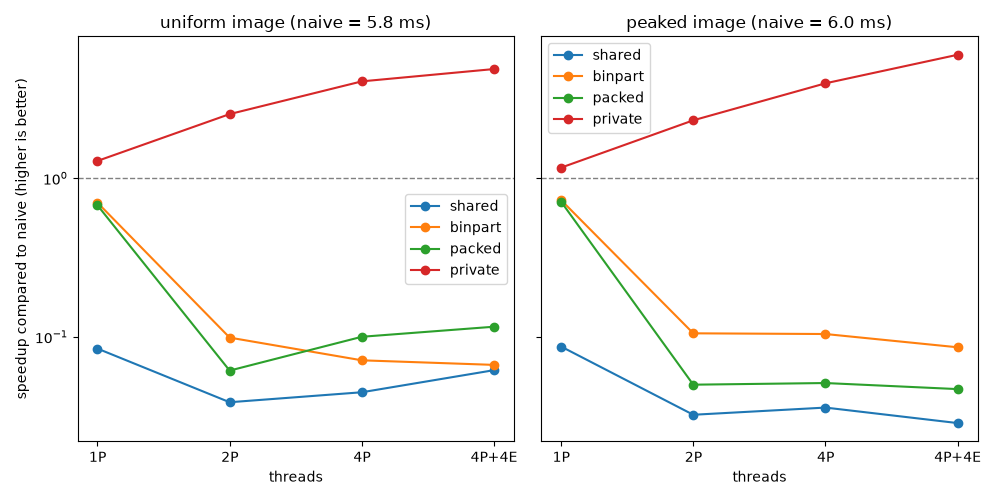
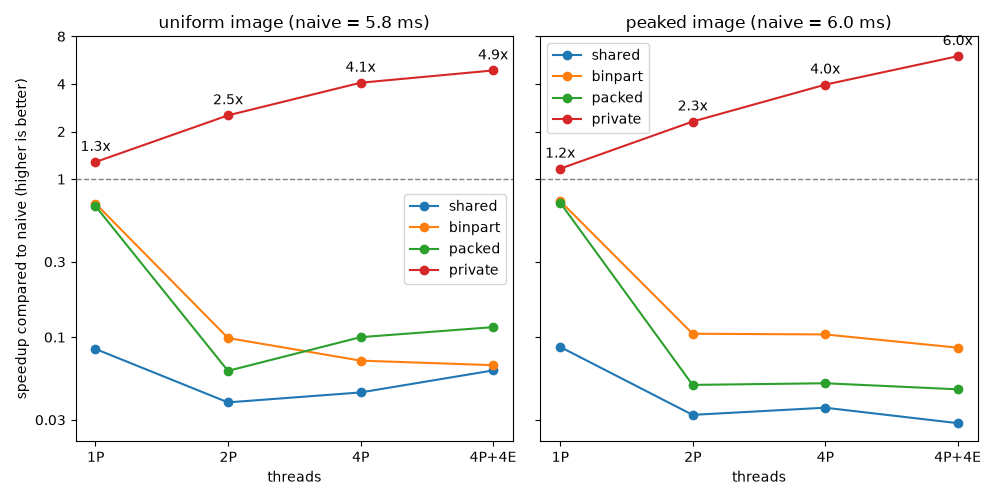
Beter plots

diff --git a/make_plots.py b/make_plots.py
@@ -5,20 +5,43 @@ import os
 import re
 
 
-os.makedirs('figures', exist_ok=True)
-IMAGES = ['uniform', 'peaked']
+# figures folder, make it if we dont already have one
+if os.path.isdir("figures") == False:
+    os.makedirs("figures")
+
+# the Two images. both are 4096 x 4096 raw bytes, no header
+IMAGES = ["uniform", "peaked"]
 
 
+# =========================
 # MAKING THE ACTUAL HISTOGRAMS
+# =========================
 fig, subfigs = plt.subplots(1, 2, figsize=(10, 5))
 
-for h, name in zip(subfigs, IMAGES):
-    img = np.fromfile(f"data/{name}.raw", dtype=np.uint8)
+for i in range(len(IMAGES)):
+    name = IMAGES[i]
+    h = subfigs[i]
+
+    # read the whole file, one byte = one pixel
+    filename = "data/" + name + ".raw"
+    img = np.fromfile(filename, dtype=np.uint8)
+
+    # how many pixels landed in each value from 0 to 255
     histogram = np.bincount(img, minlength=256)
 
-    h.bar(range(256), 100*histogram/img.size, width=1)
-    h.set_title(f"{name} image (4096 x 4096)")
+    total_pixels = img.size
+    percents = []
+    for count in histogram:
+        # percent not raw count, otherwise the y axis is just a huge number
+        pct = 100.0 * float(count) / float(total_pixels)
+        percents.append(pct)
 
+    bins = []
+    for b in range(256):
+        bins.append(b)
+
+    h.bar(bins, percents, width=1)
+    h.set_title(name + " image (4096 x 4096)")
     h.set_xlabel("pixel value = bin")
     h.set_ylabel("% of pixels in each bin")
 
@@ -26,32 +49,89 @@ fig.tight_layout()
 fig.savefig("figures/1_histograms.png")
 
 
-
-
-
+# ============================================
 # SPEEDUP VS THE NUMBER OF THREADS
-# speedup = t_naive / t_method
+# speedup = t_naive / t_method   (Higher = Better)
+# ============================================
 
-csv_data= list(csv.DictReader(open("results/scaling.csv")))
+# pull every row out of the csv. DictReader is fine, the file isnt that big
+csv_file = open("results/scaling.csv")
+reader = csv.DictReader(csv_file)
+csv_data = []
+for row in reader:
+    csv_data.append(row)
+csv_file.close()
+
 fig, subfigs = plt.subplots(1, 2, figsize=(10, 5), sharey=True)
 
-for subfig, name in zip(subfigs, IMAGES):
-    relevant_rows = [x for x in csv_data if name in x["image"]]
+for i in range(len(IMAGES)):
+    name = IMAGES[i]
+    subfig = subfigs[i]
 
-    naive = np.mean([float(x['median_ms']) for x in relevant_rows if x['method']=='naive'])
+    # only the rows that belong to this image
+    relevant_rows = []
+    for row in csv_data:
+        image_name = row["image"]
+        if name in image_name:
+            relevant_rows.append(row)
 
-    for method in ['shared', 'binpart', 'packed', 'private']: #left racy cuz it gave wrong answer
-        points = sorted((int(x["threads"]), float(x["median_ms"])) for x in relevant_rows if x["method"] == method)
-        T = [p[0] for p in points] #threads
-        S = [naive/p[1] for p in points] #speedup
-        
+    # naive time. theres usually just one but we average anyway
+    naive_times = []
+    for row in relevant_rows:
+        if row["method"] == "naive":
+            ms = float(row["median_ms"])
+            naive_times.append(ms)
+
+    naive_sum = 0.0
+    for ms in naive_times:
+        naive_sum = naive_sum + ms
+    naive = naive_sum / len(naive_times)
+
+    # left racy out cuz it gave the wrong Answer. not debugging that again
+    methods = ["shared", "binpart", "packed", "private"]
+
+    for method in methods:
+        # (thread count, median ms) then sort so the line doesnt zig zag
+        points = []
+        for row in relevant_rows:
+            if row["method"] == method:
+                thread_count = int(row["threads"])
+                median_ms = float(row["median_ms"])
+                points.append((thread_count, median_ms))
+
+        points = sorted(points)
+
+        T = []   # threads
+        S = []   # speedup
+        for p in points:
+            thread_count = p[0]
+            median_ms = p[1]
+            speedup = naive / median_ms
+            T.append(thread_count)
+            S.append(speedup)
+
         subfig.plot(T, S, "o-", label=method)
-    subfig.axhline(1, color="gray", linestyle="--", linewidth=1)   # speedup = 1: same as single thread
-    subfig.set_yscale("log")                                       # values go from ~0.03 to ~6
+
+        # only write the number on private, otherwise the labels pile up
+        if method == "private":
+            for j in range(len(T)):
+                t = T[j]
+                s = S[j]
+                label = "{:.1f}x".format(s)
+                subfig.annotate(label, (t, s), textcoords="offset points", xytext=(0, 8), ha="center")
+
+    # dashed line where speedup = 1, ie same speed as naive
+    subfig.axhline(1, color="gray", linestyle="--", linewidth=1)
+    subfig.set_yscale("log")
     subfig.set_xscale("log", base=2)
     subfig.minorticks_off()
+
+    # took a while to get these tick label right. 8 isnt 8P, its 4P + 4E
+    subfig.set_yticks([0.03, 0.1, 0.3, 1, 2, 4, 8], ["0.03", "0.1", "0.3", "1", "2", "4", "8"])
     subfig.set_xticks([1, 2, 4, 8], ["1P", "2P", "4P", "4P+4E"])
-    subfig.set_title(f"{name} image (naive = {naive:.1f} ms)")
+
+    title = name + " image (naive = " + "{:.1f}".format(naive) + " ms)"
+    subfig.set_title(title)
     subfig.set_xlabel("threads")
     subfig.legend()
 
@@ -60,37 +140,145 @@ fig.tight_layout()
 fig.savefig("figures/2_speedup.png")
 
 
+# ============================================
+# SPEEDUP AT 4 THREADS, ONE BAR PER METHOD
+# same numbers as above, just easier to read at a glance
+# ============================================
+fig, subfigs = plt.subplots(1, 2, figsize=(10, 5), sharey=True)
+
+for i in range(len(IMAGES)):
+    name = IMAGES[i]
+    subfig = subfigs[i]
+
+    relevant_rows = []
+    for row in csv_data:
+        if name in row["image"]:
+            relevant_rows.append(row)
+
+    naive_times = []
+    for row in relevant_rows:
+        if row["method"] == "naive":
+            naive_times.append(float(row["median_ms"]))
+
+    naive_sum = 0.0
+    for ms in naive_times:
+        naive_sum = naive_sum + ms
+    naive = naive_sum / float(len(naive_times))
+
+    methods = ["shared", "binpart", "packed", "private"]
+    speedups = []
+
+    for method in methods:
+        # grab the 4 thread run. should be exactly one
+        t4 = None
+        for row in relevant_rows:
+            same_method = row["method"] == method
+            is_four = row["threads"] == "4"
+            if same_method and is_four:
+                t4 = float(row["median_ms"])
+                break
+
+        this_speedup = naive / t4
+        speedups.append(this_speedup)
+
+    subfig.bar(methods, speedups)
+
+    # number on top of the bar so you dont have to squint at the log axis
+    for position in range(len(speedups)):
+        s = speedups[position]
+        txt = "{:.2f}x".format(s)
+        subfig.text(position, s * 1.15, txt, ha="center")
+
+    subfig.axhline(1, color="gray", linestyle="--", linewidth=1)
+    subfig.set_yscale("log")
+    subfig.minorticks_off()
+    subfig.set_yticks([0.01, 0.1, 1, 10], ["0.01", "0.1", "1", "10"])
+
+    title = name + " image, 4 threads (naive = " + "{:.1f}".format(naive) + " ms)"
+    subfig.set_title(title)
+
+subfigs[0].set_ylabel("speedup over naive (higher is better, log scale)")
+fig.tight_layout()
+fig.savefig("figures/4_speedup_4threads.png")
+
+
+# ===========
 # PERF STATS
+# ===========
 
 def read_perf(path):
-    '''return {event:count} from perf stats'''
+    '''return {event name: count} from a perf stat text file
+    the spacing in these dumps is kinda inconsistant so just regex it'''
     numbers = {}
-    for line in open(path):
+
+    f = open(path)
+    lines = f.readlines()
+    f.close()
+
+    for line in lines:
+        # example: 1,234,567 cpu_core/instructions/
         match = re.match(r"\s*([\d,]+)\s+cpu_core/([\w.\-]+)/", line)
-        if match:
-            count = int(match.group(1).replace(",", ""))
-            name = match.group(2)
-            numbers[name] = count
+        if match == None:
+            continue
+
+        count_txt = match.group(1)
+        count_txt = count_txt.replace(",", "")
+        count = int(count_txt)
+
+        event_name = match.group(2)
+        numbers[event_name] = count
+
     return numbers
 
 
-runs = [("naive", 1), ("shared", 1), ("shared", 4), ("binpart", 1), ("binpart", 4),
-        ("packed", 1), ("packed", 4), ("private", 1), ("private", 4)]
-run_names = [f"{m}\n{t}T" for m, t in runs]
+# which runs we actually plotted. order here is the order of the bars
+runs = []
+runs.append(("naive", 1))
+runs.append(("shared", 1))
+runs.append(("shared", 4))
+runs.append(("binpart", 1))
+runs.append(("binpart", 4))
+runs.append(("packed", 1))
+runs.append(("packed", 4))
+runs.append(("private", 1))
+runs.append(("private", 4))
 
-ipc_uniform,  ipc_peaked  = [], []
-miss_uniform, miss_peaked = [], []
-xsnp_uniform, xsnp_peaked = [], []
+run_names = []
+for pair in runs:
+    method = pair[0]
+    threads = pair[1]
+    label = method + "\n" + str(threads) + "T"
+    run_names.append(label)
+
+ipc_uniform = []
+ipc_peaked = []
+miss_uniform = []
+miss_peaked = []
+xsnp_uniform = []
+xsnp_peaked = []
 
 table_file = open("results/perf_table.csv", "w")
 table_file.write("image,method,threads,IPC,branch_miss_percent,xsnp_fwd\n")
 
 for image in IMAGES:
-    for method, threads in runs:
-        p = read_perf(f"results/perf/{method}_{image}_T{threads}.txt")
+    for pair in runs:
+        method = pair[0]
+        threads = pair[1]
 
-        ipc  = p["instructions"] / p["cycles"]
-        miss = 100 * p["branch-misses"] / p["branches"]
+        perf_path = "results/perf/" + method + "_" + image + "_T" + str(threads) + ".txt"
+        p = read_perf(perf_path)
+
+        # ipc = how much real work per cycle. low means the core is waiting on Something
+        instructions = p["instructions"]
+        cycles = p["cycles"]
+        ipc = float(instructions) / float(cycles)
+
+        # percent of branches the predictor got wrong
+        branch_misses = p["branch-misses"]
+        branches = p["branches"]
+        miss = 100.0 * float(branch_misses) / float(branches)
+
+        # loads that got the line from ANOTHER cores cache. this one gets stupidly big
         xsnp = p["mem_load_l3_hit_retired.xsnp_fwd"]
 
         if image == "uniform":
@@ -102,24 +290,41 @@ for image in IMAGES:
             miss_peaked.append(miss)
             xsnp_peaked.append(xsnp)
 
-        table_file.write(f"{image},{method},{threads},{ipc:.3f},{miss:.3f},{xsnp}\n")
-        print(f"{image:8} {method:8} {threads}T   IPC={ipc:.2f}   branch-miss={miss:.2f}%   xsnp_fwd={xsnp:,}")
+        ipc_txt = "{:.3f}".format(ipc)
+        miss_txt = "{:.3f}".format(miss)
+        line = image + "," + method + "," + str(threads) + "," + ipc_txt + "," + miss_txt + "," + str(xsnp) + "\n"
+        table_file.write(line)
+
+        # keep the print the same so the terminal dump still lines up
+        print("%-8s %-8s %dT   IPC=%.2f   branch-miss=%.2f%%   xsnp_fwd=%s" % (
+            image, method, threads, ipc, miss, format(xsnp, ",")
+        ))
 
 table_file.close()
 
 
 fig, axes = plt.subplots(1, 3, figsize=(22, 5))
 
+# one slot per run, then two skinny bars inside it
+centers = []
+for i in range(len(runs)):
+    centers.append(i)
 
-centers = list(range(len(runs)))           # 0, 1, ..., 8
 bar_width = 0.4
-uniform_x = [c - 0.2 for c in centers]   # uniform LEFT 
-peaked_x  = [c + 0.2 for c in centers]   # peaked RIGHT
 
-#IPC
+uniform_x = []   # uniform goes on the Left of each pair
+peaked_x = []    # peaked on the Right
+for c in centers:
+    left = c - 0.2
+    right = c + 0.2
+    uniform_x.append(left)
+    peaked_x.append(right)
+
+
+# IPC
 ax = axes[0]
 ax.bar(uniform_x, ipc_uniform, width=bar_width, label="uniform")
-ax.bar(peaked_x,  ipc_peaked,  width=bar_width, label="peaked")
+ax.bar(peaked_x, ipc_peaked, width=bar_width, label="peaked")
 ax.set_xticks(centers)
 ax.set_xticklabels(run_names)
 ax.set_title("IPC (instructions per cycle)\nhigher = busy, lower = waiting")
@@ -128,16 +333,16 @@ ax.legend()
 # branch miss rate
 ax = axes[1]
 ax.bar(uniform_x, miss_uniform, width=bar_width, label="uniform")
-ax.bar(peaked_x,  miss_peaked,  width=bar_width, label="peaked")
+ax.bar(peaked_x, miss_peaked, width=bar_width, label="peaked")
 ax.set_xticks(centers)
 ax.set_xticklabels(run_names)
 ax.set_title("Branch misses\n(% of branches guessed wrong, lower is better)")
 ax.legend()
 
-# cross-core cache transfers (log scale because values range from ~1kto ~100M)
+# cross core cache hits. log because its like 1k vs 100M
 ax = axes[2]
 ax.bar(uniform_x, xsnp_uniform, width=bar_width, label="uniform")
-ax.bar(peaked_x,  xsnp_peaked,  width=bar_width, label="peaked")
+ax.bar(peaked_x, xsnp_peaked, width=bar_width, label="peaked")
 ax.set_xticks(centers)
 ax.set_xticklabels(run_names)
 ax.set_yscale("log")
